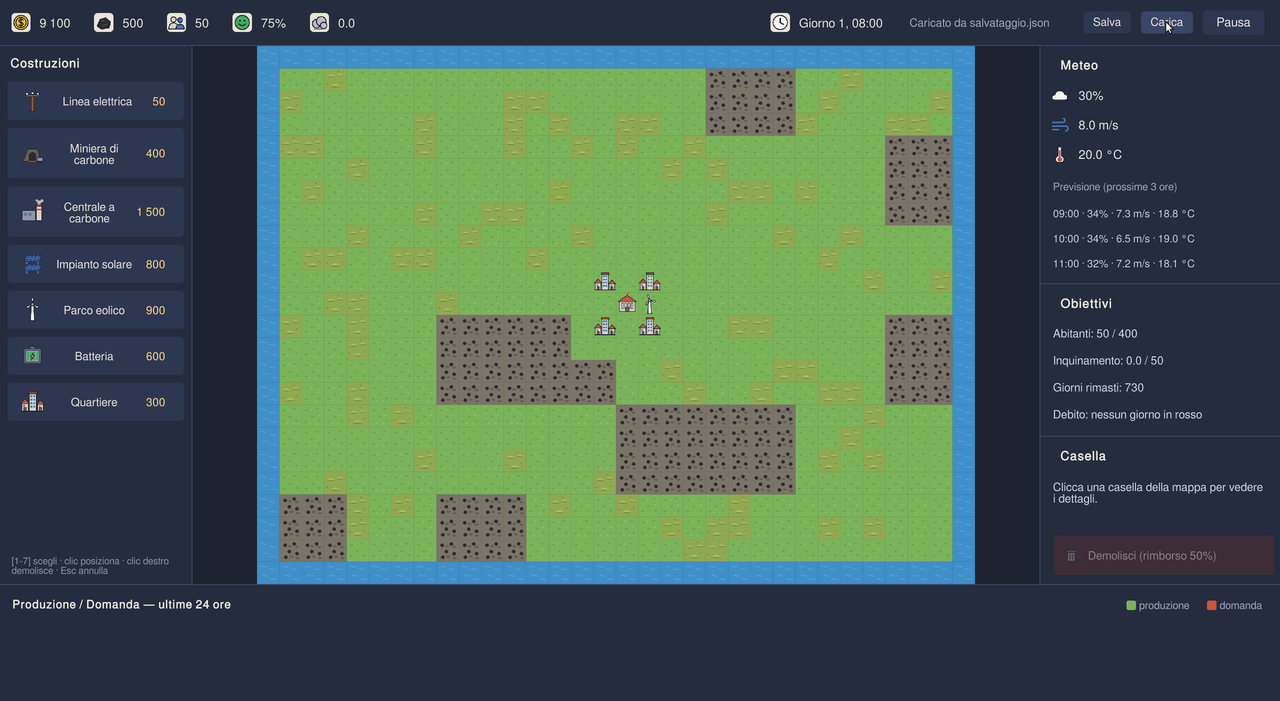
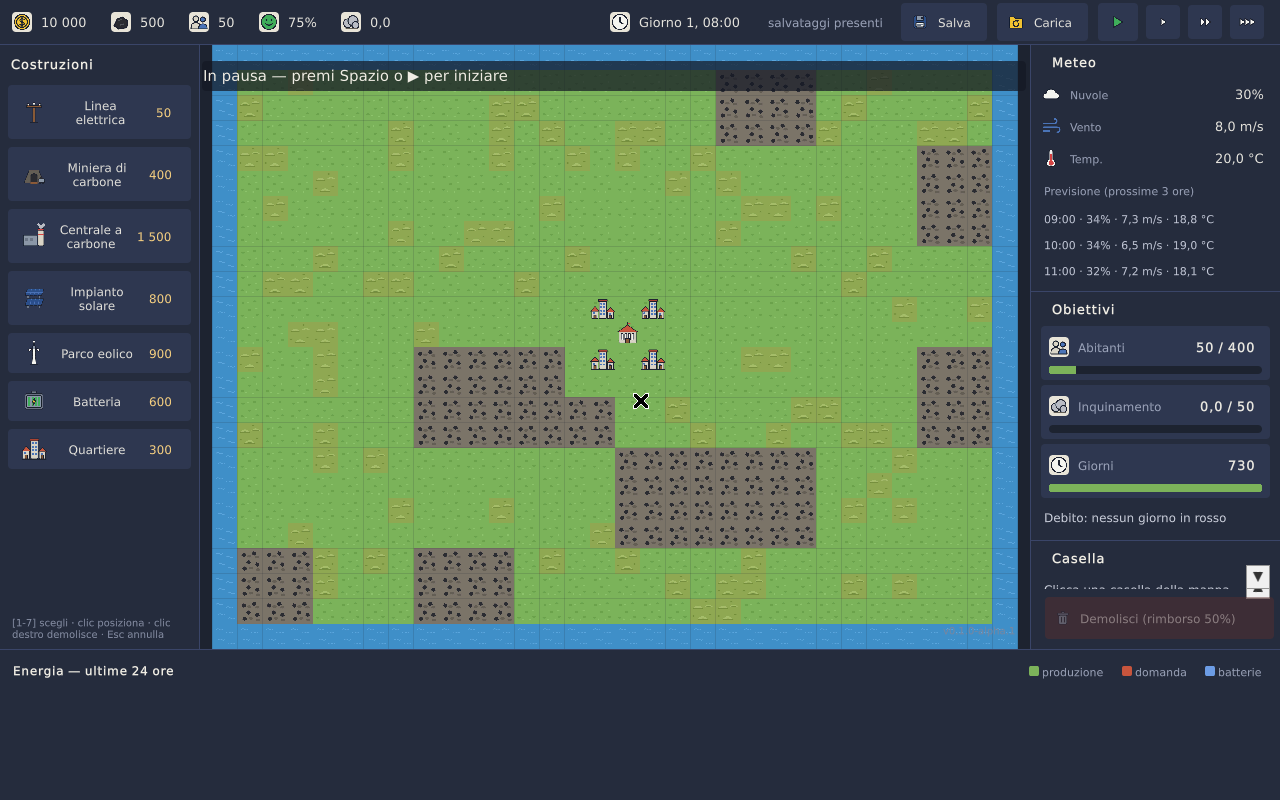
Versione 0.1.0-alpha.1: changelog, comandi, gioca nel browser
Claude-Session: https://claude.ai/code/session_01XpEGwXA4p4x8AdQg8hWTwh

diff --git a/README.md b/README.md
@@ -7,10 +7,16 @@ soffocarla di inquinamento.
 
 Un gioco originale di **Marco Scarlino**. Gratuito.
 
-![Una partita appena iniziata](immagini/schermata-partita.png)
+![Una partita appena iniziata, in pausa](immagini/schermata-partita.png)
 
 > **Stato: in sviluppo (alpha).** Il gioco si gioca dall'inizio alla fine, ma mancano ancora molte cose e qualcosa
 > può non funzionare. Ogni segnalazione aiuta: vedi [Segnalare un problema o un'idea](#segnalare-un-problema-o-unidea).
+
+## Gioca subito nel browser
+
+**[▶ Gioca a Energy Grid Tycoon nel browser](https://scrnetto.github.io/energy-grid-tycoon-releases/)**: niente da
+installare. Serve un computer con mouse e tastiera e un browser recente (Chrome, Firefox, Edge, Safari). Clicca sul
+gioco prima di usare la tastiera. I salvataggi restano nel browser che usi.
 
 ## Scaricare il gioco
 
@@ -52,8 +58,9 @@ secondo, e puoi accelerare a 2× e 4×.
 - **Obiettivo**: arrivare a **400 abitanti** con l'inquinamento **sotto la soglia** entro **2 anni**.
 - **Sconfitta**: se resti in rosso con i soldi per **30 giorni di fila**, oppure se finiscono i 2 anni.
 - **La rete**: ogni costruzione deve essere collegata al **municipio**. Le **linee elettriche** partono dal
-  municipio e lo allungano, anche in diagonale. Una costruzione è collegata se tocca il municipio o una linea.
-  I **quartieri** si collegano anche toccando altri quartieri già collegati.
+  municipio e lo allungano, anche in diagonale. Una costruzione è collegata se tocca il municipio, una linea
+  oppure un'altra costruzione già collegata: un gruppo di costruzioni attaccate è collegato se una di loro tocca
+  la rete.
 - **Domanda ed energia**: la città consuma poco di notte e molto la sera, verso le 19. Se l'energia non basta
   c'è il **blackout**: gli abitanti si arrabbiano e qualcuno se ne va.
 - **Le fonti**:
@@ -68,18 +75,27 @@ secondo, e puoi accelerare a 2× e 4×.
 
 ### Comandi
 
+Passa il mouse su qualsiasi icona o pulsante: un riquadro spiega che cos'è. Fermandolo su una costruzione della
+mappa vedi il suo stato e quanta energia produce o consuma.
+
 | Comando | Cosa fa |
 |---|---|
 | Tasti **1–7** | Scegli cosa costruire: linea, miniera, centrale a carbone, solare, eolico, batteria, quartiere |
-| **Clic sinistro** | Posa la costruzione scelta. Senza nessuna scelta mostra i dettagli della casella |
-| **Clic destro** | Demolisce la costruzione sotto il mouse (ti rimborsa metà del costo) |
+| **Clic sinistro** | Posa la costruzione scelta. Senza nessuna scelta seleziona una casella e ne mostra i dettagli |
+| **Clic destro** | Con una costruzione scelta, annulla la scelta. Senza scelta, chiede conferma per demolire (rimborso di metà del costo) |
 | **Esc** | Annulla la scelta |
-| **Spazio** | Pausa / riprendi |
-| **F** | Velocità 1× → 2× → 4× |
+| **Spazio** o pulsante ▶/❚❚ | Pausa / riprendi |
+| **F** o pulsanti delle frecce | Velocità 1×, 2×, 4× |
 | **V** | Avanza di un'ora sola |
 | **WASD** o **frecce**, tasto centrale del mouse | Sposta la vista |
 | **Rotella** | Zoom |
 | **Salva** / **Carica** (in alto) | Salva o riprende la partita. Il gioco salva anche da solo ogni giorno |
+
+### Segnali sulle costruzioni
+
+- **Spina staccata** (cerchio bianco e rosso): la costruzione non è collegata alla rete.
+- **Fulmine barrato** (cerchio giallo): è collegata ma non riceve corrente (blackout), oppure una centrale a carbone
+  è ferma perché il carbone è finito.
 
 ### Consigli per la prima partita
 
@@ -93,7 +109,8 @@ secondo, e puoi accelerare a 2× e 4×.
 
 ## Dove finiscono i salvataggi
 
-I salvataggi restano sul tuo computer e il gioco non manda niente su internet.
+I salvataggi restano sul tuo computer, o nel tuo browser per la versione web, e il gioco non manda niente su
+internet.
 
 - **Windows**: `%USERPROFILE%\AppData\LocalLow\Marco Scarlino\Energy Grid Tycoon\salvataggi`
 - **macOS**: `~/Library/Application Support/Marco Scarlino/Energy Grid Tycoon/salvataggi`

diff --git a/CHANGELOG.md b/CHANGELOG.md
@@ -12,12 +12,27 @@ Ogni versione ha queste sezioni, quando servono:
 
 ## [Non ancora pubblicata]
 
+## [0.1.0-alpha.1] - 2026-11-13
+
+La prima versione da provare. Si gioca dall'inizio alla fine, ma è un'alpha: ogni segnalazione aiuta.
+
 ### Novità
-- Prima versione giocabile: mappa con colline, giacimenti e costa; linee elettriche, miniere, centrali a carbone,
+- Mappa con colline, giacimenti di carbone e costa. Si costruiscono linee elettriche, miniere, centrali a carbone,
   pannelli solari, pale eoliche, batterie e quartieri.
-- Giorno e notte, stagioni (giornate più corte d'inverno), meteo che cambia con previsione delle 3 ore successive.
-- Obiettivi a schermo, schermata di vittoria o sconfitta, salvataggio manuale e automatico ogni giorno.
-- I quartieri si collegano alla rete anche toccando altri quartieri già collegati.
+- Giorno e notte, stagioni (giornate più corte e più nuvole d'inverno), meteo che cambia, con la previsione delle
+  3 ore successive.
+- Le costruzioni attaccate fra loro si collegano alla rete insieme: basta che una tocchi una linea o il municipio.
+- Segnali sulle costruzioni: «non collegata» e «senza corrente».
+- Riquadri informativi al passaggio del mouse su pulsanti, icone e costruzioni.
+- Conferma prima di demolire, con lo stato della costruzione e il rimborso.
+- Pulsanti per pausa e velocità (1×, 2×, 4×) con icone animate. Il grafico in basso mostra produzione, domanda ed
+  energia nelle batterie.
+- Obiettivi sempre visibili, schermata di vittoria o sconfitta, salvataggio manuale e automatico ogni giorno.
+- Versioni per Windows, macOS e Linux, e una da giocare direttamente nel browser.
 
 ### Da sapere
-- Il gioco parte in pausa: premi Spazio per iniziare.
+- La partita parte in pausa: premi Spazio o ▶ per iniziare.
+- Le versioni per Windows e macOS non sono ancora state provate su quei sistemi: se qualcosa non va, segnalalo.
+- Il gioco non è firmato: al primo avvio Windows e macOS chiedono una conferma (vedi «Al primo avvio» nel README).
+- In arrivo nelle prossime versioni: la luce del giorno e delle nuvole sulla mappa, lo schermo intero, il menu
+  iniziale.
